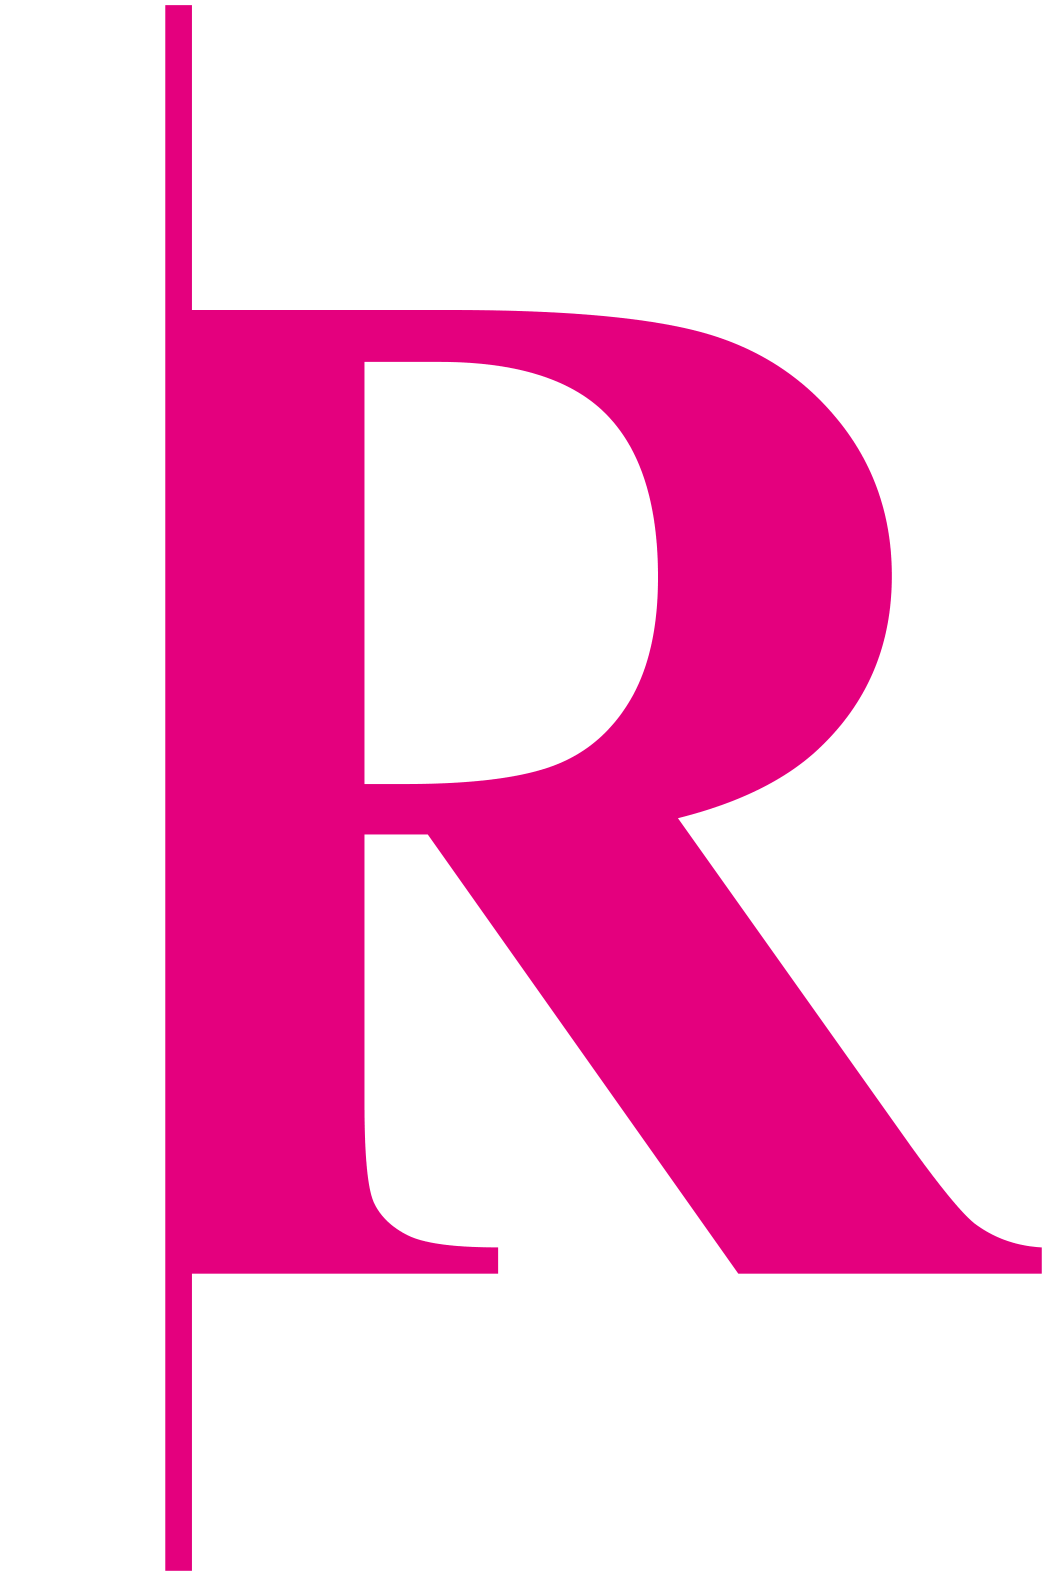
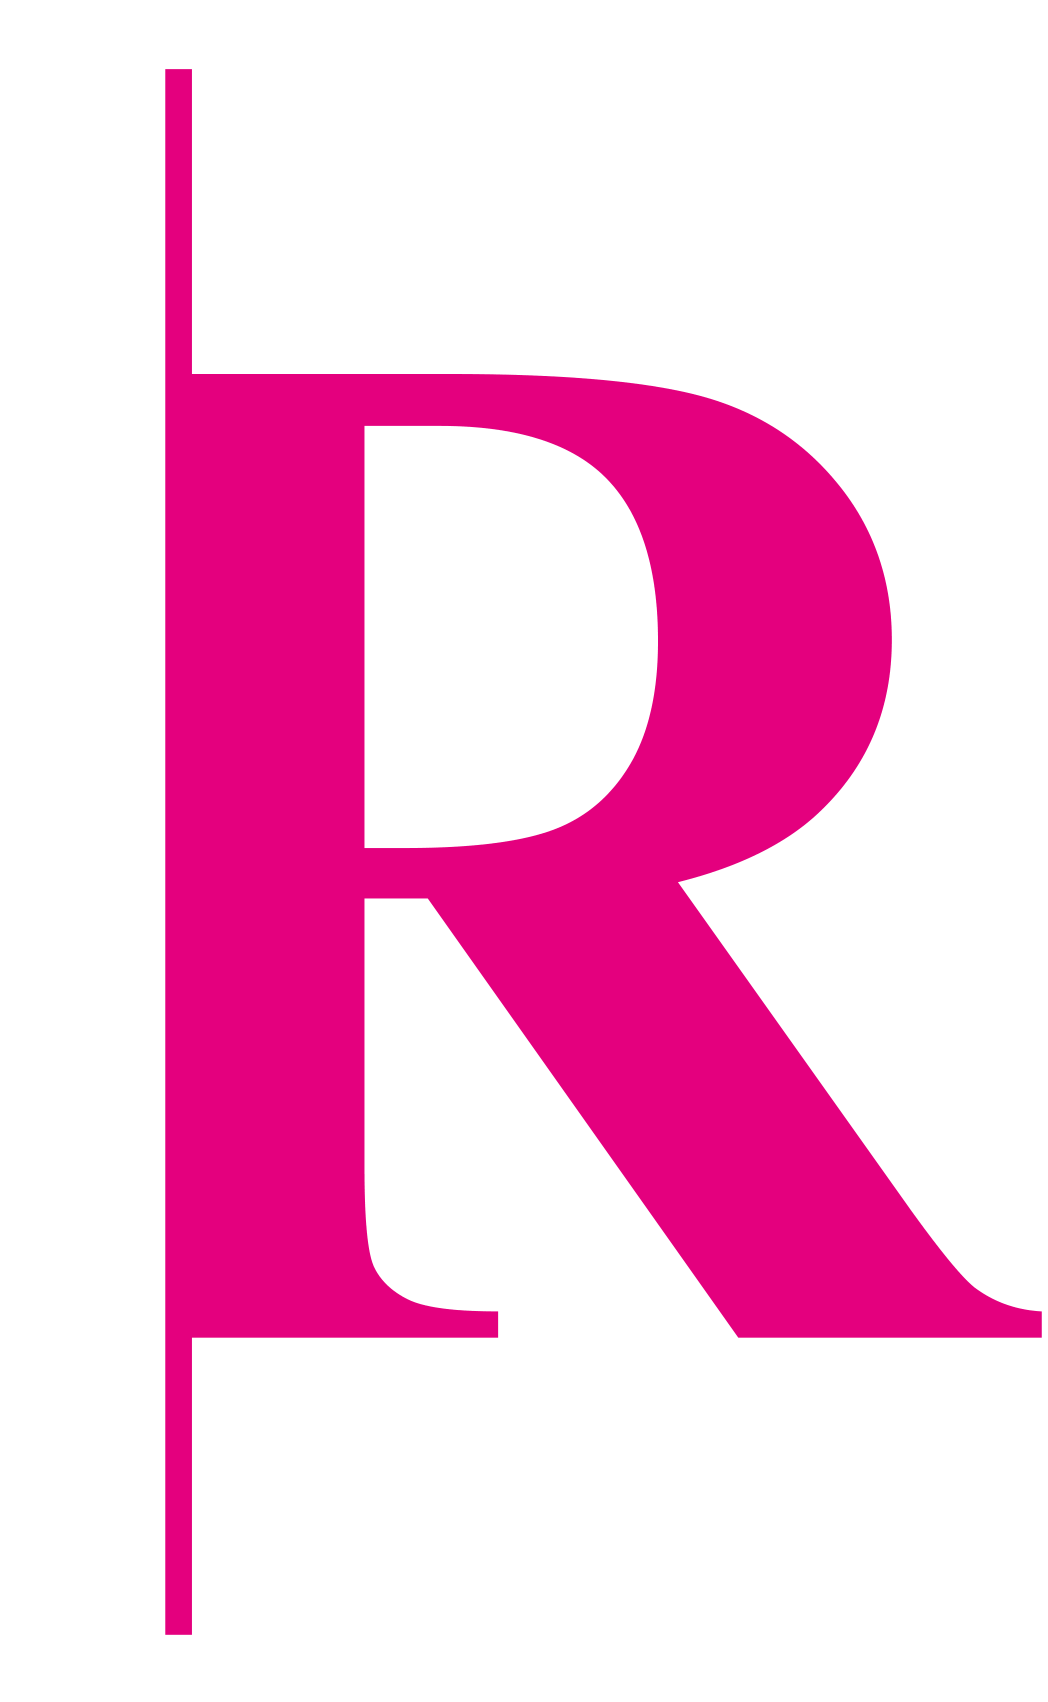
탕정분원 레테 표지 - 머리말 간격 조정 + R 세로줄 7.5cm로 복원
운영자가 샘플과 나란히 자로 잰 결과:
- 두 번째 선~페이지 끝 여백: 샘플 2.1cm, 우리 2.4cm → d1·d2 사이 2.5cm
  간격(이미 맞는 값)은 유지한 채, d1·d2·JLS로고를 덩어리째 +8.5pt
  오른쪽으로 다시 밀었다.
- 태그라인이 첫 번째 선에 너무 붙어 "꽉 껴 보인다"는 지적 — 원본 샘플
  PDF에서 태그라인~d1 간격 : d1~d2 간격 비율(20.29:97.85)을 다시 읽어서
  우리 d1~d2(2.5cm 고정)에 맞춰 태그라인을 왼쪽으로 옮겨 간격을 넓혔다.

R은 운영자 지시대로 위치(좌표)는 그대로 두고, 세로줄 길이만 전에 이미
자로 검증했던 7.5cm(212.6pt)로 복원 — 글자(R)의 절대 좌표는 안 건드리고
줄이 위아래로 튀어나온 길이만 원본 비율대로 늘려서 이미지를 다시
잘라냈다.

diff --git a/leveltest/leveltest-theme.css b/leveltest/leveltest-theme.css
@@ -577,9 +577,17 @@ button.ghost { background: #faf8fe !important; color: #8b6ee8 !important; border
    선+로고)은 지금까지 한 번도 오른쪽으로 민 적이 없어서(선 사이 2.5cm 간격만
    맞췄을 뿐) 제일 많이 남아 있었다. 안전 여백 4mm(최소 인쇄 여백 고려)만
    남기고 콘텐츠 상자(196mm) 오른쪽 끝까지 민다 — d1·d2 사이 2.5cm 간격,
-   태그라인~d1 간격은 전부 그대로 유지한 채 덩어리째 이동. */
+   태그라인~d1 간격은 전부 그대로 유지한 채 덩어리째 이동.
+   2026-10-30 — 인쇄물을 샘플이랑 나란히 놓고 자로 재보니(운영자) 두 번째
+   선~페이지 끝 여백이 샘플은 2.1cm인데 우리는 2.4cm — 0.3cm(8.5pt)만큼
+   여백을 더 줄여야 했다. d1·d2 사이 2.5cm 간격은 이미 맞는 값이라 그대로
+   유지하고, d1·d2·로고를 덩어리째 +8.5pt 오른쪽으로 다시 밀었다.
+   태그라인~d1 간격은 원본 샘플 PDF(Test Report_Cover.pdf)를 다시 열어
+   원본 비율(태그라인~d1 간격 : d1~d2 간격 = 20.29 : 97.85)대로 역산해서
+   우리 d1~d2(2.5cm 고정)에 맞춰 넓혔다 — 태그라인이 d1에 너무 붙어있어
+   "꽉 껴 보인다"는 지적이 있었다. */
 .jls-cover-tagline {
-  position: absolute; left: 264.38pt; top: 35.56pt;
+  position: absolute; left: 267.44pt; top: 35.56pt;
   font-size: 12pt; font-weight: 600; line-height: 1.2; color: #231f20;
   white-space: nowrap;
 }
@@ -587,10 +595,10 @@ button.ghost { background: #faf8fe !important; color: #8b6ee8 !important; border
 .jls-cover-divider {
   position: absolute; top: 37.86pt; height: 41.3pt; width: 0.5pt; background: #231f20;
 }
-.jls-cover-divider.d1 { left: 473.38pt; }
-.jls-cover-divider.d2 { left: 544.25pt; }
+.jls-cover-divider.d1 { left: 481.88pt; }
+.jls-cover-divider.d2 { left: 552.75pt; }
 
-.jls-cover-mark { position: absolute; left: 482.82pt; top: 45.06pt; width: 52pt; }
+.jls-cover-mark { position: absolute; left: 491.32pt; top: 45.06pt; width: 52pt; }
 .jls-cover-mark img { width: 100%; height: auto; display: block; }
 
 .jls-cover-report-title {
@@ -653,10 +661,15 @@ button.ghost { background: #faf8fe !important; color: #8b6ee8 !important; border
    그대로 썼다 — 이 페이지의 다른 요소들(태그라인·구분선·인포박스 등)도
    전부 이 원본 PDF 좌표를 그대로 쓰고 있고 실측으로 잘 맞았으니, R도
    같은 방식이 맞다. 그래서 화면/인쇄 따로 보정하던 것도 걷어냈다.
-   ⚠ 그래도 실제 PDF로 한 번 더 확인 필요 — 이번엔 "진짜" 좌표라 믿을 만
-   하지만, 혹시 어긋나면 이 좌표(409/575)가 아니라 이미지 자체는 이제
-   맞으니 좌표만 미세조정하면 된다. */
-.jls-cover-rmark { position: absolute; left: 409pt; top: 575pt; width: 131pt; height: 197pt; }
+   실제로 인쇄해서 샘플 옆에 놓고 자로 재보니(운영자) 글자·위치는 잘
+   맞는데, 줄 길이가 샘플(예전에 이미 자로 잰 값 7.5cm)보다 짧았다 —
+   "R은 위치 건들지 말고 세로줄만 더 길게"라는 요청이라, 글자(R) 자체의
+   절대 좌표(613.76~734.22)는 그대로 두고 줄의 위아래 튀어나온 길이만
+   원본 비율(위:아래 ≈ 38.1:37.1) 그대로 유지하면서 7.5cm(212.6pt)가
+   되도록 늘렸다 — 위로 46.67pt, 아래로 45.47pt. 그만큼 이미지 자체를
+   위아래로 더 잘라냈고, top만 그만큼(575→567.09) 올렸다(글자 위치는
+   이미지 안에서 안 움직이니 화면에 보이는 R 글자 위치는 그대로다). */
+.jls-cover-rmark { position: absolute; left: 409pt; top: 567.09pt; width: 131pt; height: 212.6pt; }
 .jls-cover-rmark img { width: 100%; height: 100%; object-fit: contain; display: block; }
 
 /* 운영자: "하단에 색이 있는거같지..?... 다 하얀색으로 못하냐?" — 실제 인쇄는

diff --git a/leveltest/index.html b/leveltest/index.html
@@ -8,7 +8,7 @@
   <link rel="stylesheet" href="style.css?v=20261023a">
 <link rel="stylesheet" href="chess-report.css?v=20261024b">
 <link rel="stylesheet" href="chess-bulk.css">
-<link rel="stylesheet" href="leveltest-theme.css?v=20261030e">
+<link rel="stylesheet" href="leveltest-theme.css?v=20261030f">
 </head>
 <body>
   <div class="wrap">
